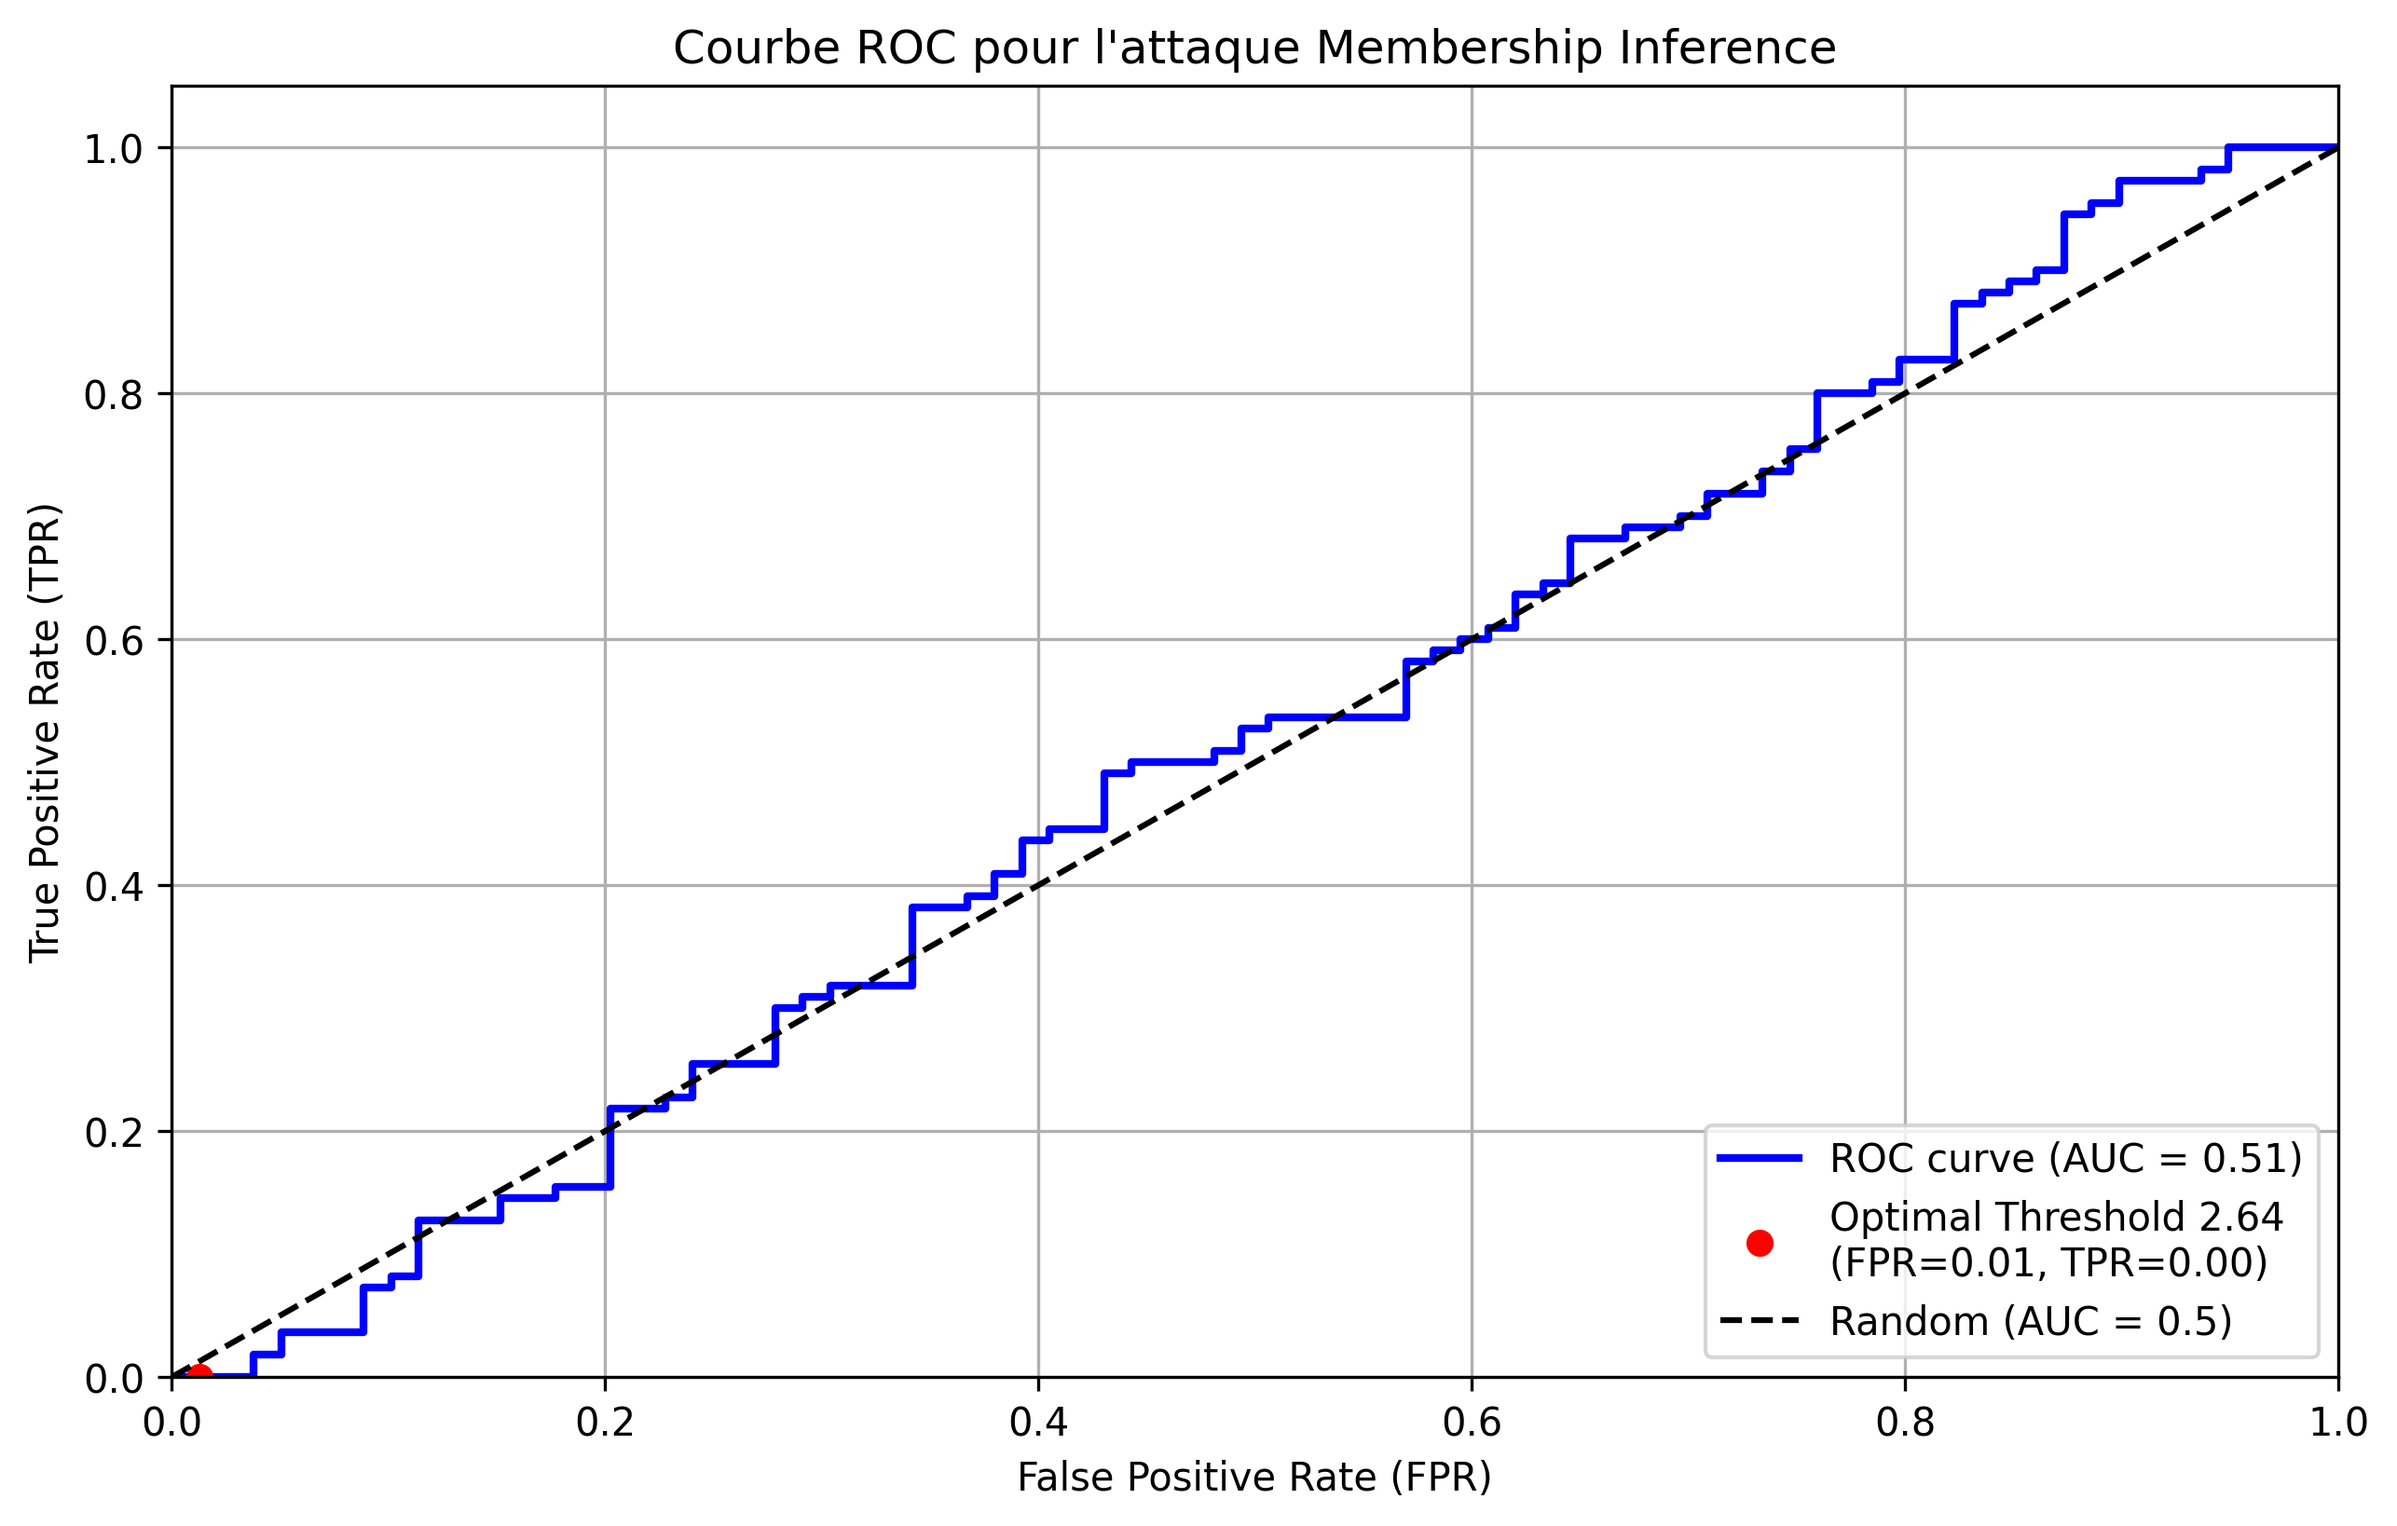
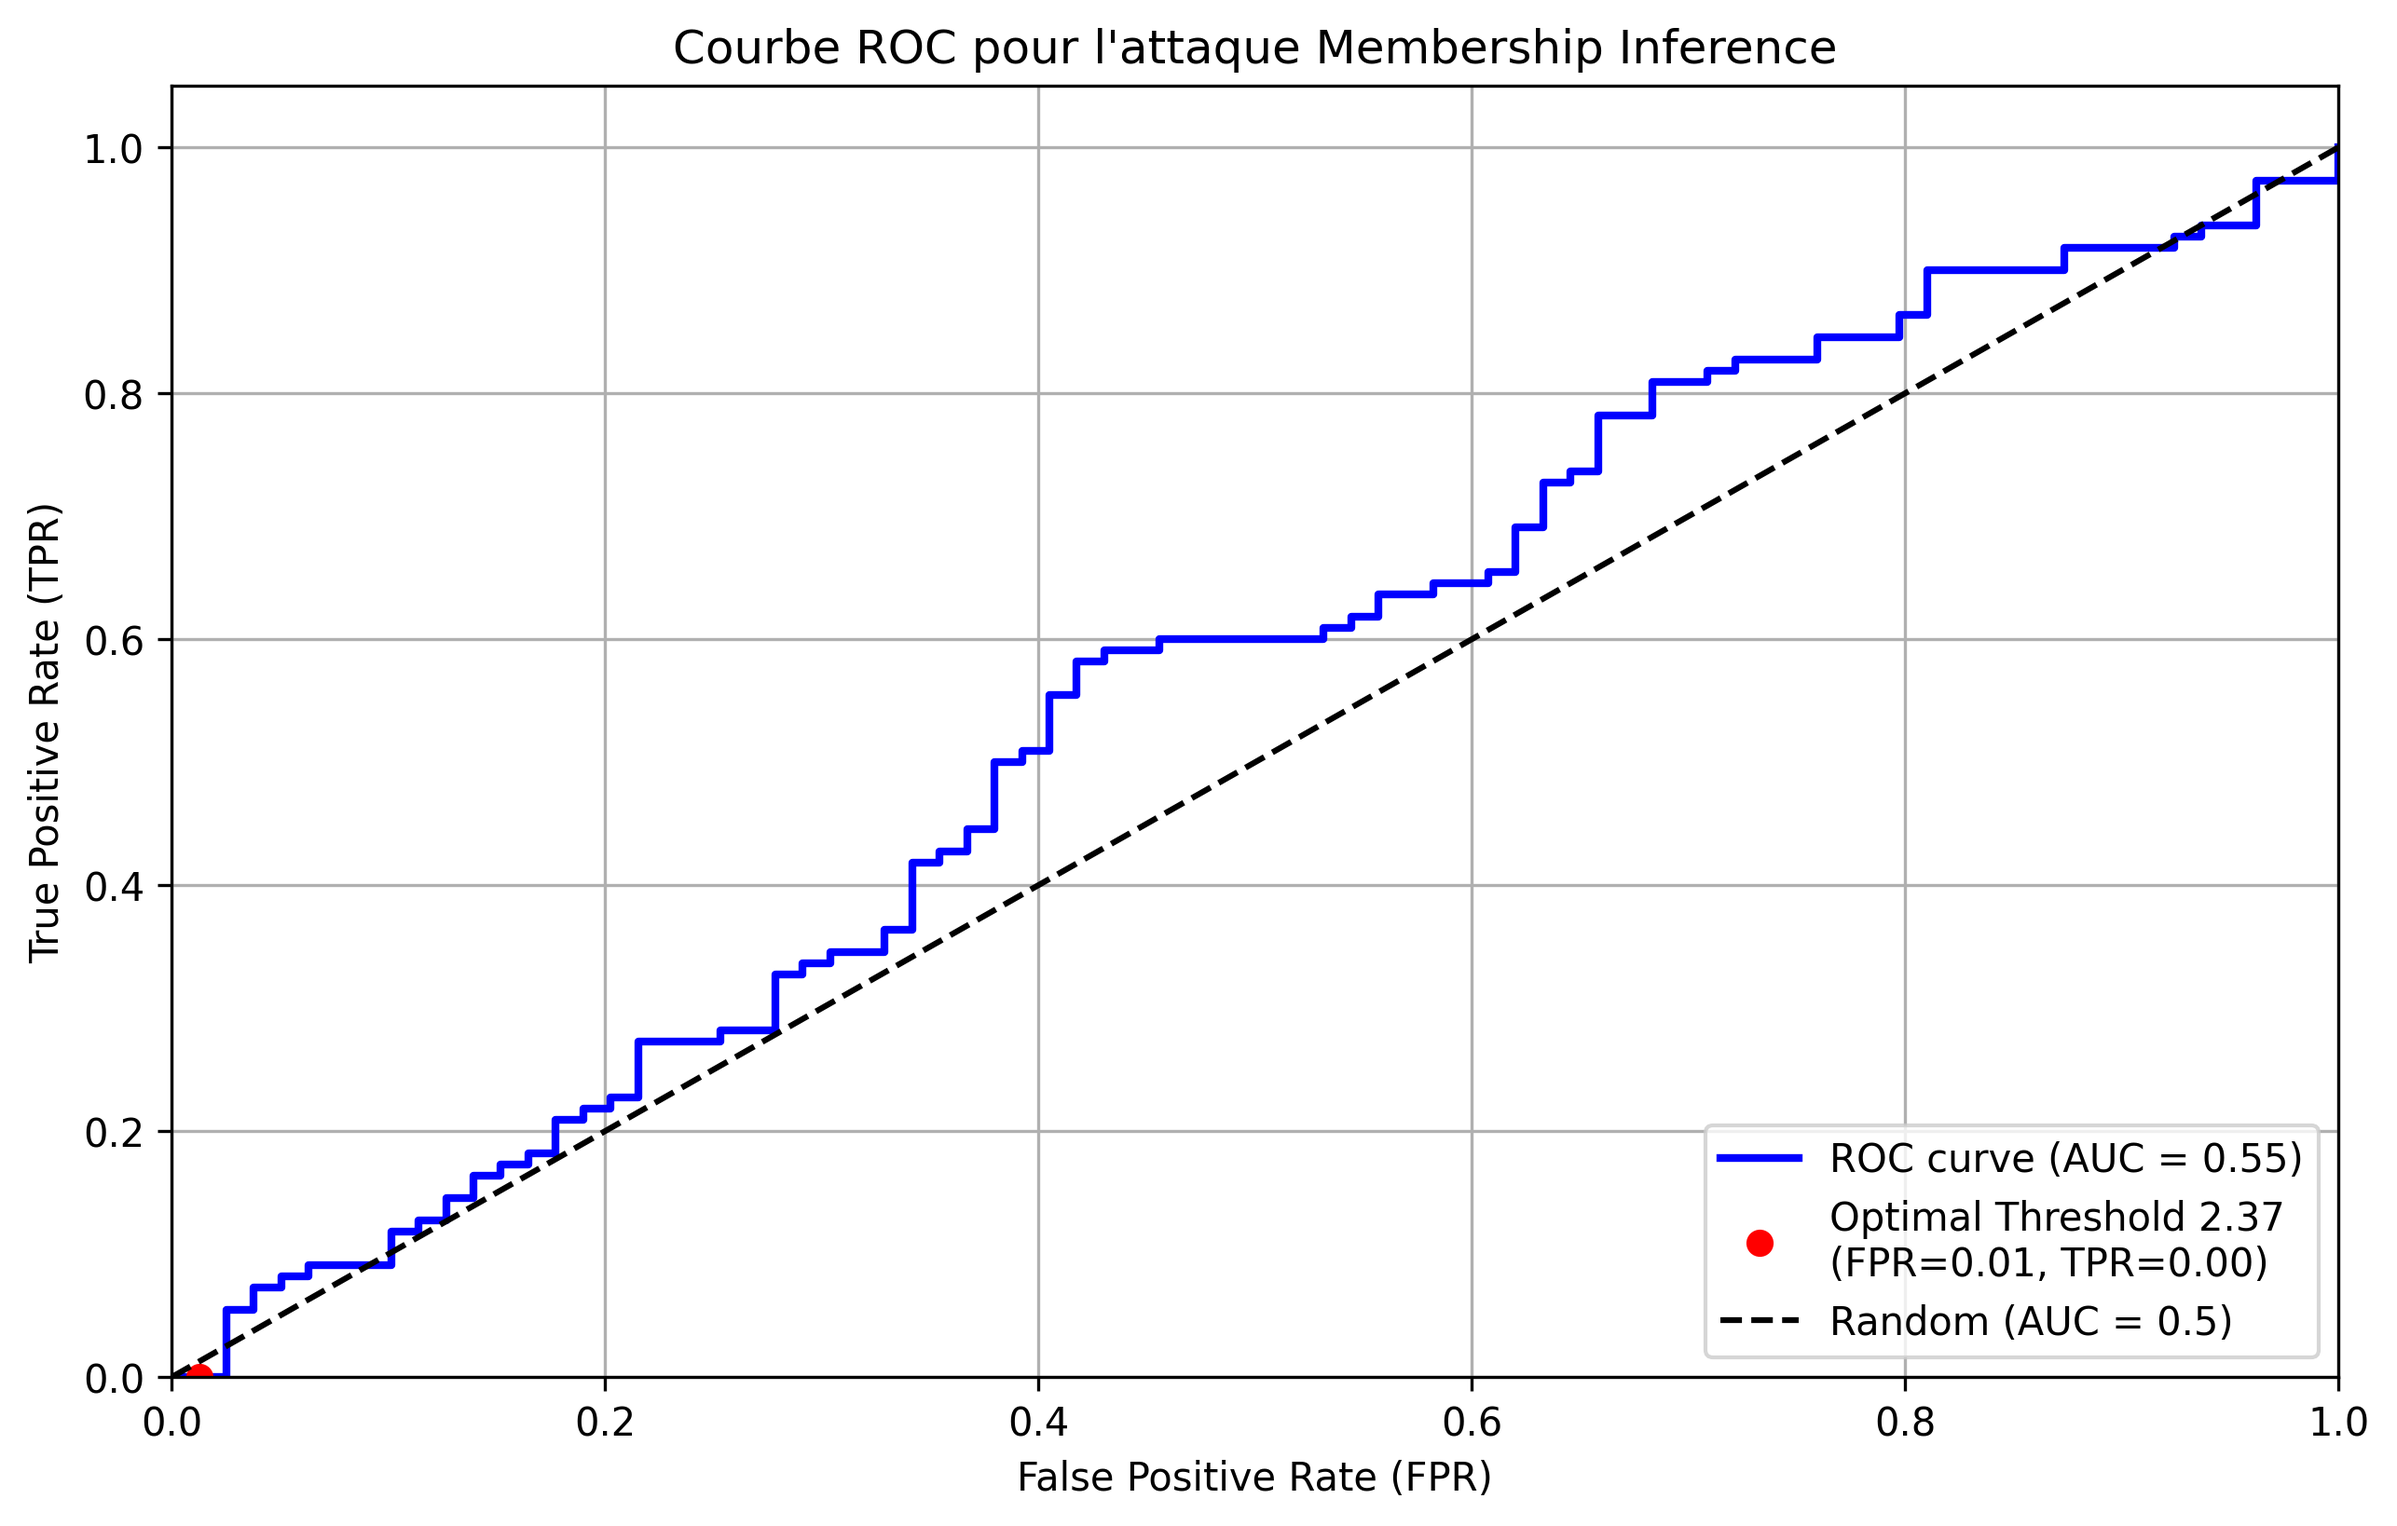
normalement c'est good

diff --git a/main.py b/main.py
@@ -19,7 +19,7 @@ dim = 64
 depth = 6
 heads = 8
 mlp_dim = 256
-epochs = 13
+epochs = 6
 batch_size = 64
 
 
@@ -88,7 +88,9 @@ optimizer = torch.optim.Adam(target_model.parameters(), lr=0.001)
 print("Training target model...")
 target_model.train_model(
     target_loader,
-    shadow_loader,
+    target_loader,  # Utilise le même loader pour train et val
+    # Pour l'attaque MIA, on peut utiliser le même loader pour train et val
+    #shadow_loader,
     #None,
     epochs,
     criterion,
@@ -219,32 +221,42 @@ test_loader = DataLoader(
     batch_size=batch_size,
     shuffle=False
 )
-    # Après entraînement
-mia_results = shadow_models[-1].evaluate_model(  # On utilise le dernier shadow model
-    member_loader=val_loader,
-    non_member_loader=test_loader,
-    criterion=criterion,
-    device=device
-)
+# Après entraînement
+member_losses = []
+non_member_losses = []
 
+# Évaluation de chaque shadow modèle
+for i in range(num_shadow_models):
+    mia_results = shadow_models[i].evaluate_model(
+        member_loader=val_loader,
+        non_member_loader=test_loader,
+        criterion=criterion,
+        device=device
+    )
+
+    # Collecte des pertes pour chaque modèle
+    member_losses.extend(mia_results['member_losses'])
+    non_member_losses.extend(mia_results['non_member_losses'])
 
 # Calcul des métriques de base
-member_loss = np.mean(mia_results['member_losses'])
-non_member_loss = np.mean(mia_results['non_member_losses'])
+member_loss = np.mean(member_losses)
+non_member_loss = np.mean(non_member_losses)
 print(f"Perte moyenne membres: {member_loss:.4f}")
 print(f"Perte moyenne non-membres: {non_member_loss:.4f}")
 print(f"Différence: {non_member_loss - member_loss:.4f}")
 
-# Calcul du seuil optimal 
-all_losses = np.concatenate([mia_results['member_losses'], mia_results['non_member_losses']])
+# Calcul du seuil optimal
+all_losses = np.concatenate([member_losses, non_member_losses])
 labels = np.concatenate([
-    np.ones(len(mia_results['member_losses'])),
-    np.zeros(len(mia_results['non_member_losses']))
+    np.ones(len(member_losses)),
+    np.zeros(len(non_member_losses))
 ])
 
-fpr, tpr, thresholds = roc_curve(labels, -all_losses)  # Note: on utilise -loss pour avoir > = membre
+fpr, tpr, thresholds = roc_curve(labels, -all_losses)  # Note: on utilise -loss pour avoir >= membre
 optimal_idx = np.argmax(tpr - fpr)
 optimal_threshold = -thresholds[optimal_idx]
+
+print(f"\nSeuil optimal calculé: {optimal_threshold:.4f}")
 
 print(f"\nSeuil optimal calculé: {optimal_threshold:.4f}")
 
@@ -257,7 +269,7 @@ print(f"- Vrais positifs: {(predictions[labels == 1] == 1).mean():.2%}")
 print(f"- Faux positifs: {(predictions[labels == 0] == 1).mean():.2%}")
 
 
-# (Tout votre code existant jusqu'à la fin reste inchangé...)
+
 # =============================================
 # VISUALISATION ET SAUVEGARDE DES RÉSULTATS
 # =============================================

diff --git a/vit_with_trajectory.py b/vit_with_trajectory.py
@@ -78,7 +78,8 @@ class ViTWithTrajectory(nn.Module):
             
             avg_train_loss = epoch_train_loss / len(train_loader)
             self.train_loss_history.append(avg_train_loss)
-            if val_loader is not None:
+            #if val_loader is not None:
+            if True:
                 avg_val_loss = self.evaluate(val_loader, criterion, device)
                 self.val_loss_history.append(avg_val_loss)
                 print(f"Epoch {epoch+1}: Train Loss: {avg_train_loss:.4f}, Val Loss: {avg_val_loss:.4f}")
@@ -89,14 +90,14 @@ class ViTWithTrajectory(nn.Module):
                 model_file = os.path.join(save_path, f"{model_name}_epoch_{epoch+1}.pth")
                 torch.save(self.state_dict(), model_file) """
 
-        # Enregistrement des losses après entraînement
-        if save_path:
-            loss_file = os.path.join(save_path, f"{model_name}_losses.csv")
-            with open(loss_file, mode='w', newline='') as f:
-                writer = csv.writer(f)
-                writer.writerow(["Epoch", "Train Loss", "Validation Loss"])
-                for epoch, (train_loss, val_loss) in enumerate(zip(self.train_loss_history, self.val_loss_history), start=1):
-                    writer.writerow([epoch, train_loss, val_loss])
+            # Enregistrement des losses après entraînement
+            if save_path:
+                loss_file = os.path.join(save_path, f"{model_name}_losses.csv")
+                with open(loss_file, mode='w', newline='') as f:
+                    writer = csv.writer(f)
+                    writer.writerow(["Epoch", "Train Loss", "Validation Loss"])
+                    for epoch, (train_loss, val_loss) in enumerate(zip(self.train_loss_history, self.val_loss_history), start=1):
+                        writer.writerow([epoch, train_loss, val_loss])
 
     
     def evaluate(self, loader, criterion, device):
